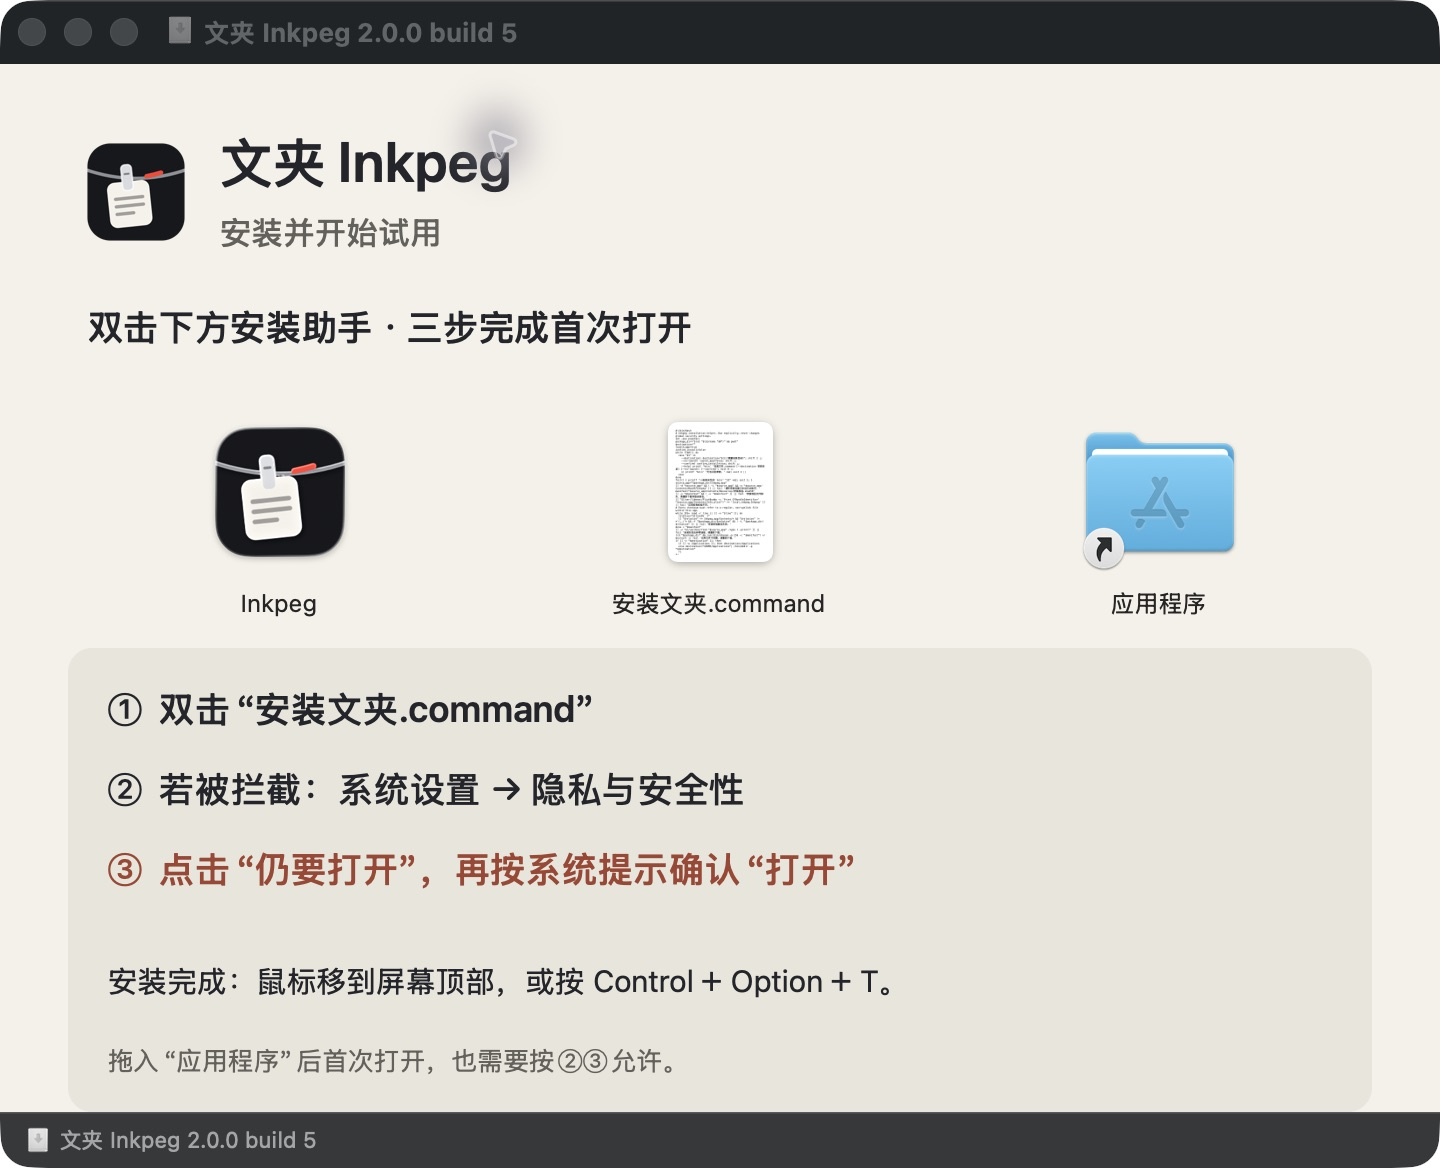
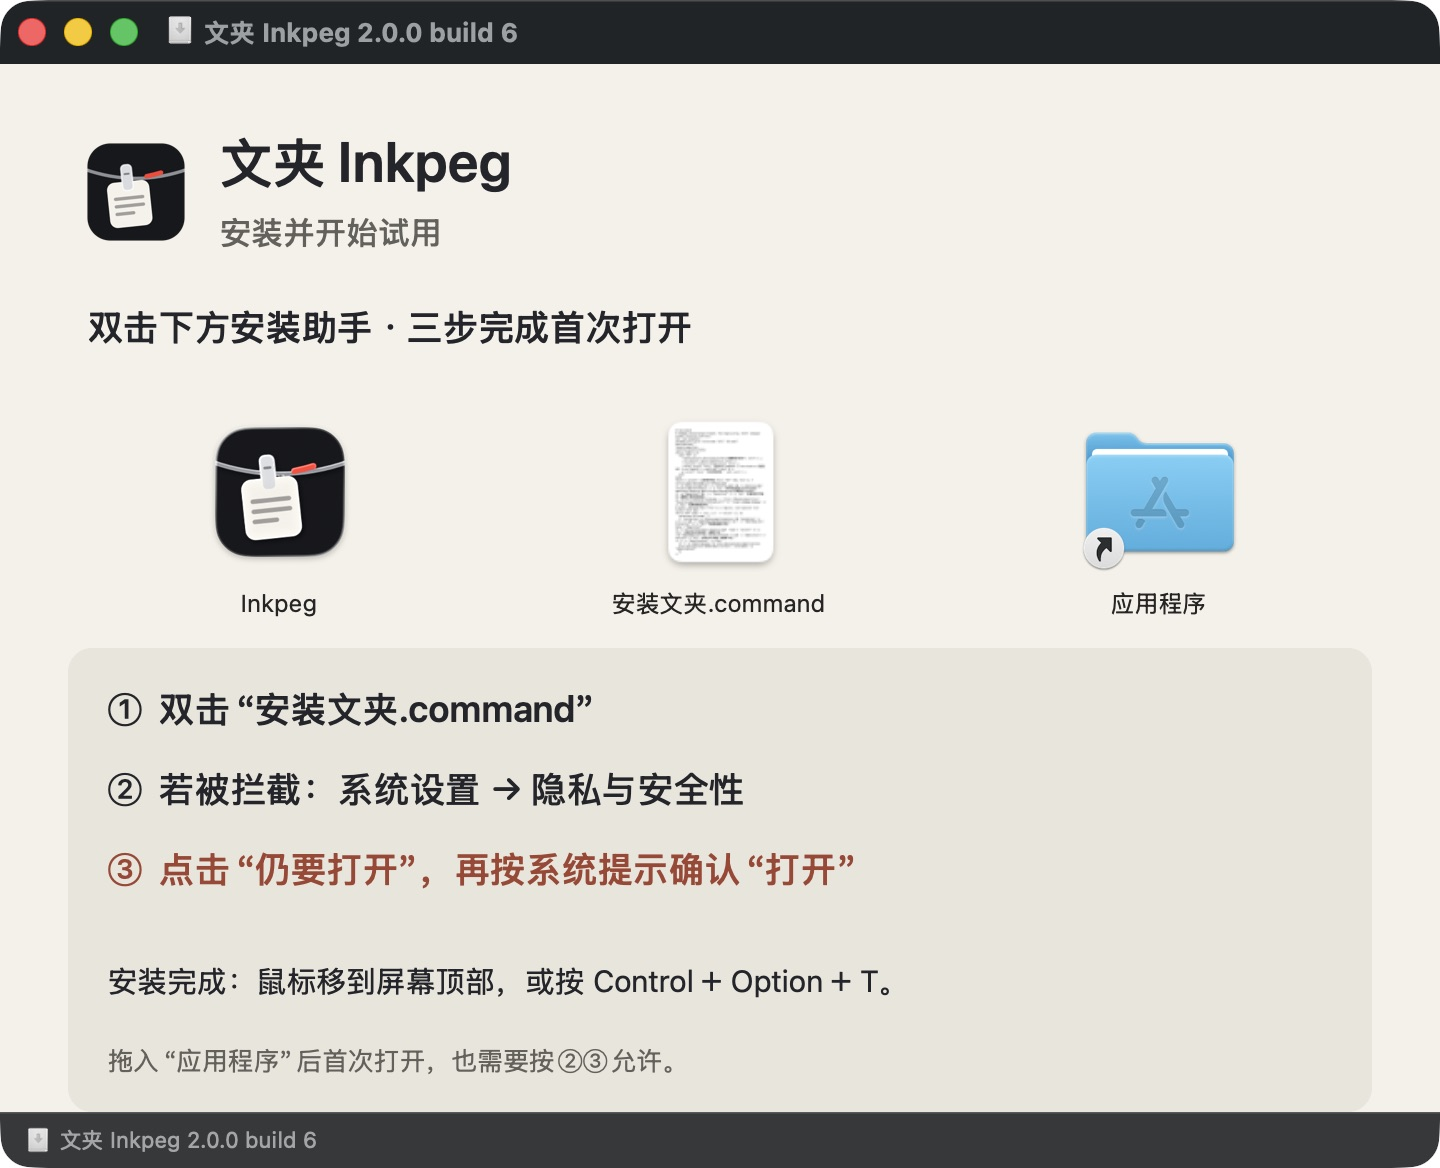
[CF-Pages-Skip] Keep exported copies visible and publish build 6

Changed region(s): [[0.0, 0.0, 0.3438, 0.0616], [0.4688, 0.3699, 0.5312, 0.4623], [0.3125, 0.0925, 0.375, 0.1541]]

diff --git a/site/index.html b/site/index.html
@@ -204,14 +204,14 @@
         <div class="dl-rope" aria-hidden="true"></div>
         <p class="tag"><i></i>05 · 下载</p>
         <h2 id="download-title">给桌面，<br>添一根绳。</h2>
-        <p class="dl-meta">文夹 Inkpeg 2.0.0 · build 5<br>macOS 14 及以上 · Apple Silicon（M 系列）与 Intel 双架构</p>
-        <a class="btn btn-ink btn-lg" id="download-btn" href="downloads/Inkpeg-2.0.0-build5-universal.dmg" download="Inkpeg-2.0.0-build5-universal.dmg"><svg viewBox="0 0 20 20" aria-hidden="true"><path d="M10 3v10m-4-4 4 4 4-4M4 16h12"/></svg>下载 Mac 通用版 <span id="download-size" class="size" data-pending="size">（5.2 MB）</span></a>
-        <details class="checksum-details"><summary>核对下载文件（可选）</summary><div class="sha"><span>SHA-256</span><code id="sha-value" data-pending="sha256">11ba28d7f45804838c4fd7b2ac811363c418ec209589187f9f567c66a6c8a34f</code><button type="button" id="sha-copy" class="mini">复制</button></div></details>
+        <p class="dl-meta">文夹 Inkpeg 2.0.0 · build 6<br>macOS 14 及以上 · Apple Silicon（M 系列）与 Intel 双架构</p>
+        <a class="btn btn-ink btn-lg" id="download-btn" href="downloads/Inkpeg-2.0.0-build6-universal.dmg" download="Inkpeg-2.0.0-build6-universal.dmg"><svg viewBox="0 0 20 20" aria-hidden="true"><path d="M10 3v10m-4-4 4 4 4-4M4 16h12"/></svg>下载 Mac 通用版 <span id="download-size" class="size" data-pending="size">（5.2 MB）</span></a>
+        <details class="checksum-details"><summary>核对下载文件（可选）</summary><div class="sha"><span>SHA-256</span><code id="sha-value" data-pending="sha256">650ccd25c130caa6c10cb1e67dc4d5908d5be71098ed736df0821f9b6bb3642e</code><button type="button" id="sha-copy" class="mini">复制</button></div></details>
         <div class="dl-links"><a href="downloads/SHA256SUMS.txt" download>SHA256SUMS.txt</a><a href="downloads/安装教程.md" download>安装与升级说明</a><a href="downloads/本版限制.md" download>本版限制</a><a href="https://github.com/CSlawyer1985/Inkpeg" target="_blank" rel="noopener noreferrer">源码仓库（需授权）↗</a></div>
       </div>
       <div class="install">
         <h3>安装三步</h3>
-        <ol class="steps"><li><b>下载并打开安装包。</b><span>下载完成后双击 DMG，打开安装窗口。</span></li><li><b>双击“安装文夹.command”。</b><span>安装助手会自动安装并打开文夹。也可以把文夹 App 拖入“应用程序”后打开。</span></li><li><b>被系统拦截时，选择“仍要打开”。</b><span>先尝试打开一次，再到“系统设置 → 隐私与安全性”，向下找到“仍要打开”，点击后再按提示确认“打开”。拖入“应用程序”后的首次打开也按这一步允许。</span></li></ol><p class="release-note">安装完成后，鼠标移到屏幕顶部，或按 Control＋Option＋T 开始使用。</p><details class="terminal-alternative"><summary>另一种安装方式：复制命令安装</summary><p>保持 DMG 打开，复制命令到终端并按回车，会自动安装并打开。</p><div class="install-command-box"><button type="button" id="install-command-copy" class="mini">复制安装命令</button><details><summary>查看安装命令</summary><code id="install-command">/bin/bash "/Volumes/文夹 Inkpeg 2.0.0 build 5/安装文夹.command"</code></details></div></details>
+        <ol class="steps"><li><b>下载并打开安装包。</b><span>下载完成后双击 DMG，打开安装窗口。</span></li><li><b>双击“安装文夹.command”。</b><span>安装助手会自动安装并打开文夹。也可以把文夹 App 拖入“应用程序”后打开。</span></li><li><b>被系统拦截时，选择“仍要打开”。</b><span>先尝试打开一次，再到“系统设置 → 隐私与安全性”，向下找到“仍要打开”，点击后再按提示确认“打开”。拖入“应用程序”后的首次打开也按这一步允许。</span></li></ol><p class="release-note">安装完成后，鼠标移到屏幕顶部，或按 Control＋Option＋T 开始使用。</p><details class="terminal-alternative"><summary>另一种安装方式：复制命令安装</summary><p>保持 DMG 打开，复制命令到终端并按回车，会自动安装并打开。</p><div class="install-command-box"><button type="button" id="install-command-copy" class="mini">复制安装命令</button><details><summary>查看安装命令</summary><code id="install-command">/bin/bash "/Volumes/文夹 Inkpeg 2.0.0 build 6/安装文夹.command"</code></details></div></details>
         <details class="install-help"><summary>终端首次粘贴出现提醒怎么办？</summary><p>若提示“可能是恶意软件，已阻止粘贴”，先核对“查看安装命令”：它只运行已打开 DMG 里的本地安装助手。确认来源是本站后，点“仍然粘贴”。若提示“检测到恶意软件”或“已阻止恶意脚本”，停止操作。</p></details>
         <p class="release-note">升级前先从文夹菜单退出旧版。安装助手保留旧 App，资料库保持不变。</p>
       </div>

diff --git a/Tests/InkpegCoreTests/ExportSafetyTests.swift b/Tests/InkpegCoreTests/ExportSafetyTests.swift
@@ -30,6 +30,25 @@ final class ExportSafetyTests: XCTestCase {
     }
 }
 extension ExportSafetyTests {
+    func testHiddenSourceExportsVisibleCopiesWithoutChangingSourceOrLibrary() async throws {
+        let f = try StoreFixture(), store = f.makeStore()
+        var source = f.source
+        var hidden = URLResourceValues(); hidden.isHidden = true
+        try source.setResourceValues(hidden)
+        let before = try await store.importMaterial(.file(source, .fileSelection), into: MatterGroup.ungroupedID, visibleCapacity: 3).snapshot
+        let id = try XCTUnwrap(before.materials.first?.id), managed = try await store.payloadURL(of: id)
+        XCTAssertEqual(try managed.resourceValues(forKeys: [.isHiddenKey]).isHidden, true)
+        for destination in [f.root.appendingPathComponent("Exports/ready/source.txt"),
+                            source.deletingLastPathComponent().appendingPathComponent("finder-copy.txt")] {
+            let exported = try await store.exportCopy(of: id, to: destination)
+            XCTAssertEqual(try exported.resourceValues(forKeys: [.isHiddenKey]).isHidden, false,
+                           "An exported file must appear normally in Finder, even when its managed source is hidden")
+            XCTAssertEqual(try Data(contentsOf: exported), f.bytes)
+        }
+        XCTAssertEqual(try source.resourceValues(forKeys: [.isHiddenKey]).isHidden, true)
+        XCTAssertEqual(try managed.resourceValues(forKeys: [.isHiddenKey]).isHidden, true)
+        let after = try await store.load(); XCTAssertEqual(after, before)
+    }
     func testExportBindsToSelectedVersionAcrossLaterEdit() async throws {
         let f = try StoreFixture(), store = f.makeStore()
         let imported = try await store.importMaterial(.file(f.source, .fileSelection), into: MatterGroup.ungroupedID, visibleCapacity: 3)

diff --git a/Sources/InkpegCore/MaterialStore.swift b/Sources/InkpegCore/MaterialStore.swift
@@ -543,6 +543,11 @@ public actor MaterialStore {
         try checkBudget(bytes: info.byteCount)
         try Task.checkCancellation()
         try files.copy(source, to: target) // Foundation refuses an existing destination.
+        // Copying preserves source flags. An explicitly exported copy must be
+        // visible in Finder, even if the managed payload was hidden.
+        var exportedURL = target
+        var visibility = URLResourceValues(); visibility.isHidden = false
+        try exportedURL.setResourceValues(visibility)
         let copied = try files.inspect(target)
         guard copied.isRegularFile, !copied.isSymbolicLink, copied.byteCount == info.byteCount,
               ContentStore.digest(try files.read(target)) == ContentStore.digest(try files.read(source)) else { throw StoreError.sourceChanged }

diff --git a/scripts/release-tools.py b/scripts/release-tools.py
@@ -1,6 +1,6 @@
 #!/usr/bin/env python3
 """Bounded release provenance and actual bundle inspection. No signing/install changes."""
-import argparse, hashlib, json, pathlib, plistlib, re, shutil, subprocess
+import argparse, hashlib, json, pathlib, plistlib, re, shutil, stat, subprocess
 ROOT = pathlib.Path(__file__).resolve().parent.parent
 INPUT_FILES = ['Package.swift', 'LICENSE', 'scripts/build-inkpeg.sh', 'scripts/package-inkpeg.sh',
  'scripts/make-icon.swift', 'scripts/make-dmg-background.swift', 'scripts/make-starter-workspace.py', 'scripts/release-tools.py', 'scripts/verify-inkpeg.sh',
@@ -46,6 +46,8 @@ def inspect(app):
     if sha(app/'Contents/Resources/dmg-background.png')!=sha(ROOT/'packaging/brand/dmg-background.png'): raise ValueError('Installer background mismatch')
     for file in (ROOT/'packaging/starter-workspace').rglob('*'):
         if file.is_file() and file.name!='.DS_Store' and sha(file)!=sha(app/'Contents/Resources/StarterWorkspace'/file.relative_to(ROOT/'packaging/starter-workspace')): raise ValueError('Starter resources mismatch')
+    for file in (app/'Contents/Resources/StarterWorkspace').rglob('*'):
+        if file.stat().st_flags & stat.UF_HIDDEN: raise ValueError('Starter resources must not carry hidden flags')
     provenance=json.loads((app/'Contents/Resources/build-source.json').read_text())
     if provenance['sha256']!=source()['sha256']: raise ValueError('Build inputs changed after build')
     code=subprocess.run(['codesign','-dvv',str(binary)],text=True,capture_output=True)

diff --git a/scripts/test-release.py b/scripts/test-release.py
@@ -8,7 +8,7 @@ release = importlib.util.module_from_spec(spec)
 spec.loader.exec_module(release)
 class ReleaseContract(unittest.TestCase):
     def test_single_version(self):
-        self.assertEqual(release.version(ROOT), {'version':'2.0.0','build':'5','minimumMacOS':'14.0'})
+        self.assertEqual(release.version(ROOT), {'version':'2.0.0','build':'6','minimumMacOS':'14.0'})
     def test_dirty_fingerprint_includes_untracked_sources_excludes_metadata_and_output(self):
         with tempfile.TemporaryDirectory() as tmp:
             root = pathlib.Path(tmp); (root/'Sources/New').mkdir(parents=True)
@@ -22,7 +22,7 @@ class ReleaseContract(unittest.TestCase):
             source.write_text('changed source')
             self.assertNotEqual(release.fingerprint(before),release.fingerprint(release.inputs(root)))
     def test_plist_and_binary_minimum_must_match(self):
-        metadata = {'CFBundleShortVersionString':'2.0.0','CFBundleVersion':'5','LSMinimumSystemVersion':'14.0','CFBundleIconFile':'Inkpeg.icns'}
+        metadata = {'CFBundleShortVersionString':'2.0.0','CFBundleVersion':'6','LSMinimumSystemVersion':'14.0','CFBundleIconFile':'Inkpeg.icns'}
         release.check_metadata(metadata, ['14.0','14.0'], release.version(ROOT))
         with self.assertRaises(ValueError): release.check_metadata(metadata,['13.0','14.0'],release.version(ROOT))
         metadata['CFBundleVersion']='1'

diff --git a/scripts/check-site.py b/scripts/check-site.py
@@ -208,7 +208,7 @@ with sync_playwright() as p:
         download.save_as(file)
         digest = hashlib.sha256(file.read_bytes()).hexdigest()
         assert digest == release['sha256'] and file.stat().st_size == release['sizeBytes']
-        assert download.suggested_filename == 'Inkpeg-2.0.0-build5-universal.dmg'
+        assert download.suggested_filename == 'Inkpeg-2.0.0-build6-universal.dmg'
         expect(page.locator('#sha-value')).to_have_text(digest)
         expect(page.locator('#download-size')).to_contain_text(f"{release['sizeBytes']/1e6:.1f} MB")
         assert release['architectures'] == ['arm64', 'x86_64'] and release['minimumMacOS'] == '14.0'
@@ -273,7 +273,7 @@ with sync_playwright() as p:
         nj.goto(base + '/')
         with nj.expect_download() as pending:
             nj.locator('#download-btn').click()
-        assert pending.value.suggested_filename == 'Inkpeg-2.0.0-build5-universal.dmg'
+        assert pending.value.suggested_filename == 'Inkpeg-2.0.0-build6-universal.dmg'
         nojs.close()
         record('Published fallback download also works without JavaScript')
         assert not errors, errors

diff --git a/scripts/test-installer.py b/scripts/test-installer.py
@@ -12,7 +12,7 @@ class InstallerTests(unittest.TestCase):
         self.assertTrue(source.exists(),'The package must include the runnable installation helper')
         shutil.copy2(source,self.helper)
         app=self.package/'Inkpeg.app';(app/'Contents/MacOS').mkdir(parents=True); (app/'Contents/Resources').mkdir()
-        (app/'Contents/Info.plist').write_bytes(plistlib.dumps({'CFBundleIdentifier':'local.inkpeg.Inkpeg','CFBundleExecutable':'Inkpeg','CFBundleShortVersionString':'2.0.0','CFBundleVersion':'5'}))
+        (app/'Contents/Info.plist').write_bytes(plistlib.dumps({'CFBundleIdentifier':'local.inkpeg.Inkpeg','CFBundleExecutable':'Inkpeg','CFBundleShortVersionString':'2.0.0','CFBundleVersion':'6'}))
         binary=app/'Contents/MacOS/Inkpeg';binary.write_text('#!/bin/sh\nexit 0\n');binary.chmod(0o755)
         self.source=app;self.manifest()
     def manifest(self):

diff --git a/docs/inkpeg/VERIFICATION.md b/docs/inkpeg/VERIFICATION.md
@@ -1,24 +1,24 @@
-# 2.0.0／build 5 验证
+# 2.0.0／build 6 验证
 
-2026-10-12，版本来源为 `packaging/release-version.json`。本版加入纯产品示例和实际 Finder 安装背景，并同步官网“仍要打开”步骤。
+2026-10-12，版本来源为 `packaging/release-version.json`。本版修正导出副本继承隐藏属性，保留产品示例和 Finder 安装步骤。
 
 ## COMMAND + OUTPUT + RESULT
 
 | 命令／操作 | 输出 | 结果 |
 | --- | --- | --- |
-| `swift test --scratch-path <独立目录>` | Core 190＋App 210，400 tests、0 failures | PASS |
+| `swift test --scratch-path <独立目录>` | Core 191＋App 210，401 tests、0 failures | PASS |
 | `python3 scripts/test-release.py` | 4 tests，OK | PASS |
 | `python3 scripts/test-installer.py` | 11 tests，OK；默认安装、确认／取消、旧 App 保留、错误 payload／id／链接拒绝、仅目标副本隔离属性处理 | PASS |
 | `scripts/build-inkpeg.sh --configuration release --architectures universal --no-sign` | 两架构独立 Release 构建 exit 0；资源和输入 SHA 一致 | PASS |
-| `scripts/package-inkpeg.sh --app <实际App> --output <新目录>` | 最终 DMG verify VALID；5,159,783 bytes | PASS |
-| `scripts/release-tools.py site --app <实际App> --dmg <实际DMG>` | 2.0.0／build 5；ICNS、三份示例、两个二进制 slice、macOS 14 最低系统和源指纹一致 | PASS |
+| `scripts/package-inkpeg.sh --app <实际App> --output <新目录>` | 最终 DMG verify VALID；5,152,148 bytes | PASS |
+| `scripts/release-tools.py site --app <实际App> --dmg <实际DMG>` | 2.0.0／build 6；ICNS、三份示例、两个二进制 slice、macOS 14 最低系统和源指纹一致 | PASS |
 | 最终 DMG 只读挂载；逐文件 SHA 校验；运行助手至隔离目录 | 3 个可见入口；全部 20 个 App 文件校验通过；安装与资源检查 exit 0 | PASS |
 | 在 Finder 打开最终 DMG 并截图 | 实际显示 Logo、3 个图标、隐私与安全性／仍要打开／打开；背景和文字无遮挡 | PASS |
 | 实际 App 使用独立开发资料根首次启动、再启动 | 每次持续运行 7 秒；均只有记事／图片／PDF 三份示例，自动接收及读取已有剪贴板均关闭 | PASS |
 | `python3 scripts/check-site.py --url <Range服务器> --out <记录>` | 28 checks，包括实际拖动／取消、记事、清理、14 视口、触屏、视频音频／章节、完整下载及无 JS 回退 | PASS |
 | `python3 scripts/check-release-site.py --url <Range服务器> --out <记录>` | 5 checks：版本、真实下载、系统允许步骤、可选命令、桌面／手机及 Pages 文件限制 | PASS |
 
[2 lines of base64/hex data omitted]
 
 [发行元数据](../../site/downloads/release.json)、[逐文件构建输入](../../site/downloads/build-source.json)和[公开验证摘要](../../site/downloads/verification.json)提供追溯。原始日志与失败候选包保留在本机记录目录，未发布。
 
@@ -38,6 +38,14 @@ Intel 实机、macOS 14 实机、多屏／Spaces、完整输入法与撤销、Vo
 
 ## 构建追溯
 
-完整验证入口先运行原生测试和构建；Finder 背景关联对象写法在实际打包时失败，参照 MemoBall 显式视图选项修正后重建。随后实际首启暴露接收设置问题，补回归、重新全量测试、重建两种架构并重新打包；只有最终产物发布。
+此前 build 5 的完整验证入口先运行原生测试和构建；Finder 背景关联对象写法在实际打包时失败，参照 MemoBall 显式视图选项修正后重建。随后实际首启暴露接收设置问题，补回归、重新全量测试、重建两种架构并重新打包；只有最终产物发布。
 
 记录的 HEAD 是提交前基线；输入 SHA 覆盖全部 Sources、品牌、产品示例、版本、构建与包内说明，提交后 HEAD 可变，输入 SHA 必须保持一致。许可证、原作者版权、资料库 schema 和旧客户库迁移行为未变。
+
+## Build 6 导出可见性回归
+
+用户实测图片/PDF已经写入桌面但名称灰色或看不到。只读属性诊断确认示例payload与复制出的文件带UF_HIDDEN。Foundation复制继承隐藏标志；微信接收内容不以Finder可见属性决定呈现。
+
+新增实际文件测试先失败两次（应用导出目录与外部接收目录），修复后ExportSafety 4项全部通过：仅将新导出副本设为可见，原source、托管payload仍保持原隐藏设置，文件字节和完整资料状态不变。完整验证入口401项原生测试、两架构构建与DMG打包exit0。新App/真实DMG的5个样本配置与payload以及父目录均无UF_HIDDEN，发行检查拒绝携带该标志的样本。独立导出安全/拖放兼容/原生文件承诺16项全通过。
+
+偶发拖动停顿尚未稳定复现，未认定隐藏属性是停顿原因，未改文件承诺架构或图像转换线程。

diff --git a/site/README.md b/site/README.md
@@ -41,10 +41,12 @@ python3 scripts/check-site.py --url http://127.0.0.1:8767 --out /tmp/inkpeg-site
 
 1. 用 `scripts/build-inkpeg.sh --configuration release --no-sign` 构建；默认 universal。
 2. 用 `scripts/package-inkpeg.sh --app <已验证App> --output <新的输出目录>` 生成新包。
-3. 核验 DMG 架构／最低系统／资源／内容／SHA，复制成 `downloads/Inkpeg-2.0.0-build5-universal.dmg`。
+3. 核验 DMG 架构／最低系统／资源／内容／SHA，复制成 `downloads/Inkpeg-2.0.0-build6-universal.dmg`。
 4. 同步 `release.json` 的大小／SHA／版本／实测状态和 `SHA256SUMS.txt`，删除 `release.json` 中的 `pending`，同步两份说明。占位期间页面下载按钮自动停用。
 5. 重新执行网页下载测试，确保按钮实际返回这一包。升级版本时一起修改页面显示、文件名和链接，不能只改文案。
 
-当前发行 2.0.0／build 5，400 项原生回归与 11 项安装助手回归通过。DMG 内含实际 App 图标、`安装文夹.command` 和带“仍要打开”指引的 Finder 背景图。首次启动仅在不存在的资料库中创建介绍记事、宣传图、官网 PDF 三个模拟示例。网站仅显示必要操作提示；制作过程说明保留在此文件和媒体来源清单。
+当前发行 2.0.0／build 6，401 项原生回归与 11 项安装助手回归通过。DMG 内含实际 App 图标、`安装文夹.command` 和带“仍要打开”指引的 Finder 背景图。首次启动仅在不存在的资料库中创建介绍记事、宣传图、官网 PDF 三个模拟示例。网站仅显示必要操作提示；制作过程说明保留在此文件和媒体来源清单。
 
 安装助手默认自动运行，不要求另按回车；可选 `--confirm` 用于明确确认／取消测试。DMG 仅 App、应用程序快捷方式和助手3个可见入口。网站主要三步说明涵盖双击助手、系统设置中的“仍要打开”和手动拖入应用程序的首次确认；可选终端命令折叠显示，从 release.json 读取，必须与真实DMG卷名一致。
+
+Build 6 修复复制时继承隐藏属性：只将新导出副本设为可见，原件和托管材料保持原状；新App内的产品示例统一去掉隐藏标志，发行检查拒绝带此标志的样本。

diff --git a/docs/inkpeg/INSTALL.md b/docs/inkpeg/INSTALL.md
@@ -1,6 +1,6 @@
 # 文夹 Inkpeg · 安装与升级
 
-适用：2.0.0 公开预览版（build 5），macOS 14+，Apple Silicon＋Intel 通用包。
+适用：2.0.0 公开预览版（build 6），macOS 14+，Apple Silicon＋Intel 通用包。
 
 ## 首次安装：三步
 
@@ -13,7 +13,7 @@
 也可以保持 DMG 打开，从官网复制以下本地命令到终端并按回车，自动安装并打开：
 
 ```sh
-/bin/bash "/Volumes/文夹 Inkpeg 2.0.0 build 5/安装文夹.command"
+/bin/bash "/Volumes/文夹 Inkpeg 2.0.0 build 6/安装文夹.command"
 ```
 
 终端首次粘贴可能要求确认；若系统检测到已知恶意软件，停止操作。
